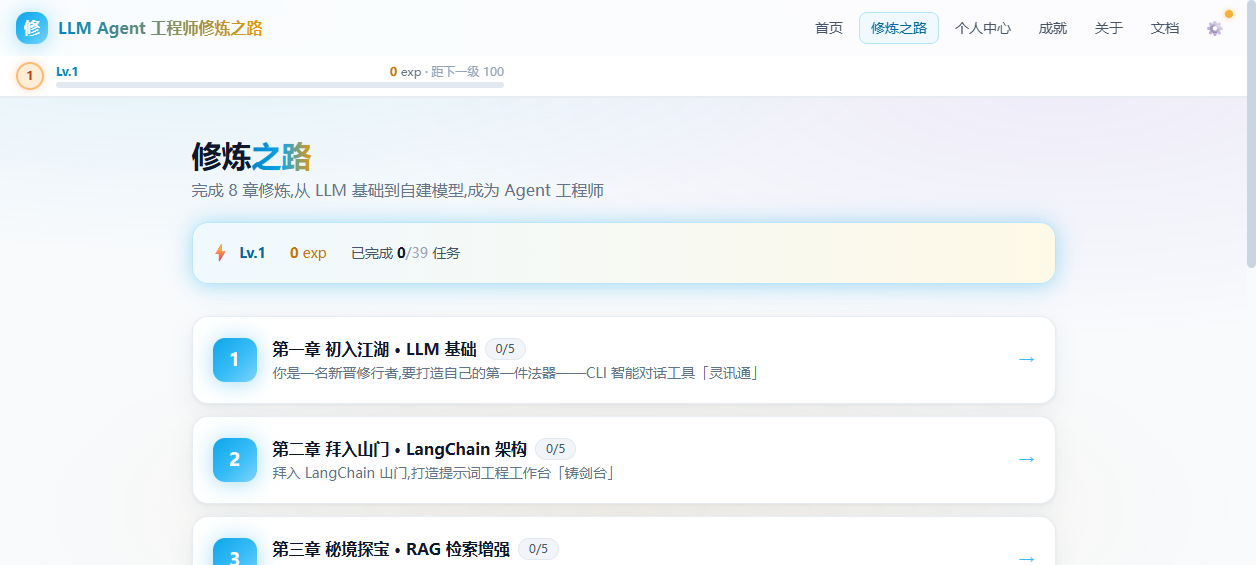
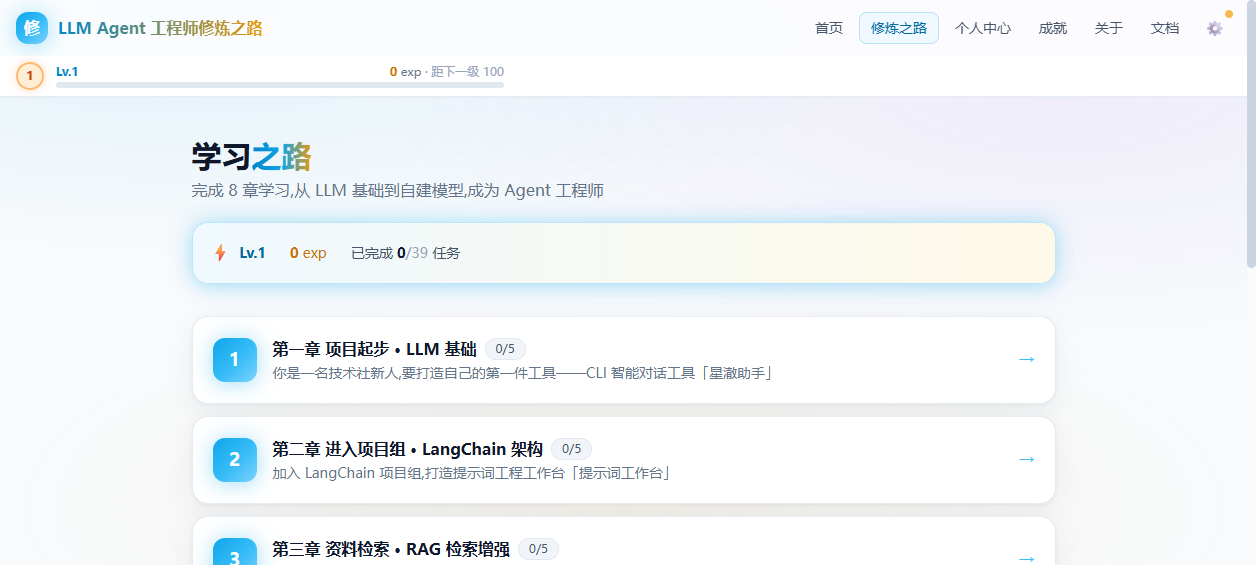
docs: README 截图更新为现版 UI(学习之路/星澈助手/学习契约) + 特色区丰富(212 步/学习契约/行为校验/双镜像/自带 Key)

diff --git a/README.en.md b/README.en.md
@@ -16,10 +16,12 @@ Learn LLM engineering like leveling up in a game: 8 chapters, 39 hands-on tasks,
 
 ## ✨ Features
 
-- ⚔ **Gamified curriculum** — 8 chapters / 39 tasks covering the full LLM stack, from API basics to a self-built tiny model
-- 💻 **Built-in IDE** — Monaco Editor with teaching comments baked into starter code; every task ships with a checklist, hints, and a reference solution
-- 🐳 **Real code execution** — your Python runs in a Docker sandbox against the live DeepSeek API (OpenAI-compatible), with real stdout back
-- ✅ **Smart validation** — 9 rule types (API-call inspection, output matching, unit tests, …) decide pass/fail precisely
+- ⚔ **Gamified curriculum** — 8 chapters / 39 tasks / **212 steps** covering the full LLM stack, from API basics to a self-built tiny model
+- 💻 **Built-in IDE** — Monaco Editor; every task ships with instructions, a checklist, hints, samples, and a reference solution
+- 📜 **Learning-contract starters** — every starter file opens with the step's goal, what to fill in, key function signatures, the tech stack, and the expected observable result
+- 🐳 **Real code execution** — your Python runs in a Docker sandbox (core / ml images) against the live DeepSeek API, with real stdout back
+- ✅ **Smart validation** — static rules (AST / API-call / output matching) plus behavioral checks (sandbox runs + pytest) decide pass/fail precisely
+- 🔑 **Bring your own key** — network tasks require your own DeepSeek key (kept in your browser, never stored server-side); there is no shared key to leech
 - 🤖 **LLM-generated courseware** — the curriculum itself is produced by an LLM pipeline (`scripts/generate_curriculum.py`) with Pydantic validation
 - 📦 **Local-first** — no sign-up; progress lives in `localStorage`
 - 📖 **Full docs site** — installation guide, learning path, and a searchable tech reference for every library used

diff --git a/README.md b/README.md
@@ -16,10 +16,12 @@
 
 ## ✨ 特色
 
-- ⚔ **游戏化课程** —— 8 章 39 任务,覆盖 LLM 全技术栈,从 API 基础一路打到自建小模型
-- 💻 **内置 IDE** —— Monaco 编辑器,starter 代码自带教学注释;每个任务配任务清单、提示和参考代码
-- 🐳 **真实代码执行** —— Python 代码在 Docker 沙箱中运行,直连 DeepSeek(OpenAI 兼容)真实接口,看真实输出
-- ✅ **智能通关验证** —— 9 种验证规则(API 调用检查、输出匹配、单元测试……),精准判定掌握度
+- ⚔ **游戏化课程** —— 8 章 39 任务 **212 步**,覆盖 LLM 全技术栈,从 API 基础一路打到自建小模型
+- 💻 **内置 IDE** —— Monaco 编辑器;每个任务配说明、任务清单、提示、样例、术语和完整代码参考
+- 📜 **学习契约模板** —— 每个 starter 顶部标明本步目标、补写内容、关键函数出入参、技术栈和可观察结果,动笔前就知道要做什么
+- 🐳 **真实代码执行** —— Docker 沙箱(core / ml 双镜像)运行你的 Python,直连 DeepSeek 真实接口,看真实输出
+- ✅ **智能通关验证** —— 静态规则(代码结构 / API 调用 / 输出匹配)+ 行为校验(沙箱实跑 + pytest),精准判定掌握度
+- 🔑 **自己的 Key 自己的账** —— 联网课程必须填你自己的 DeepSeek Key(存浏览器,不过夜于服务器),没有公共 Key 可蹭
 - 🤖 **LLM 生成课程** —— 课程内容本身由 LLM 管线生成(`scripts/generate_curriculum.py`),Pydantic 全程校验
 - 📦 **本地优先** —— 无需登录,进度存浏览器 `localStorage`,数据在你手里
 - 📖 **完整文档站** —— 安装指南、学习路径、以及每个用到的库的搜索式技术参考
